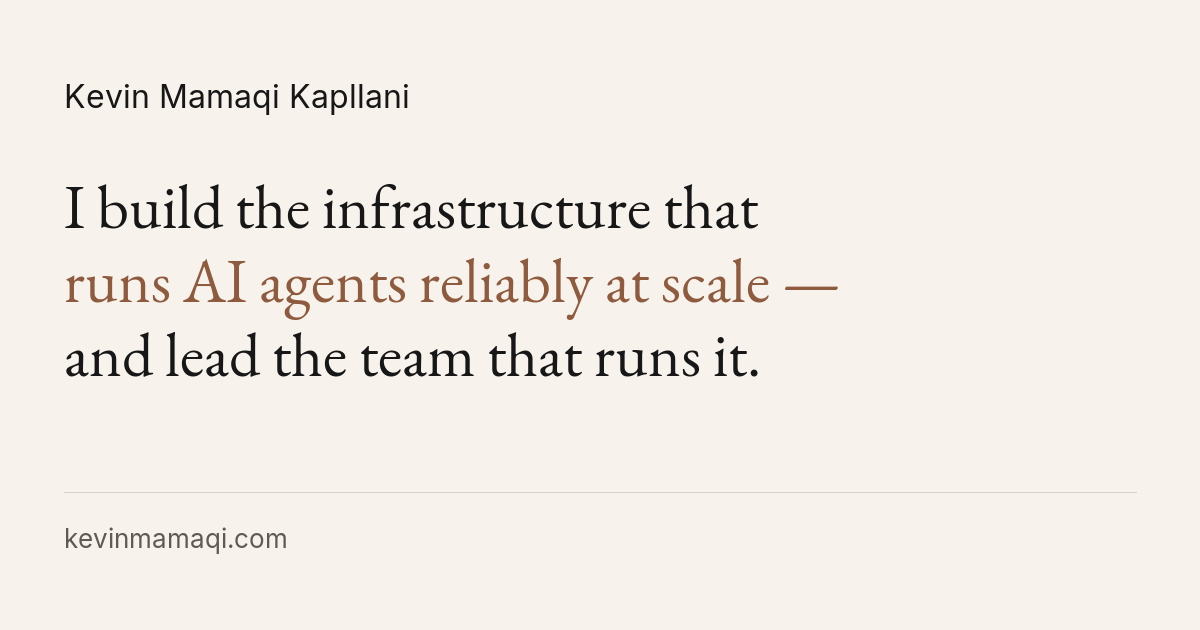
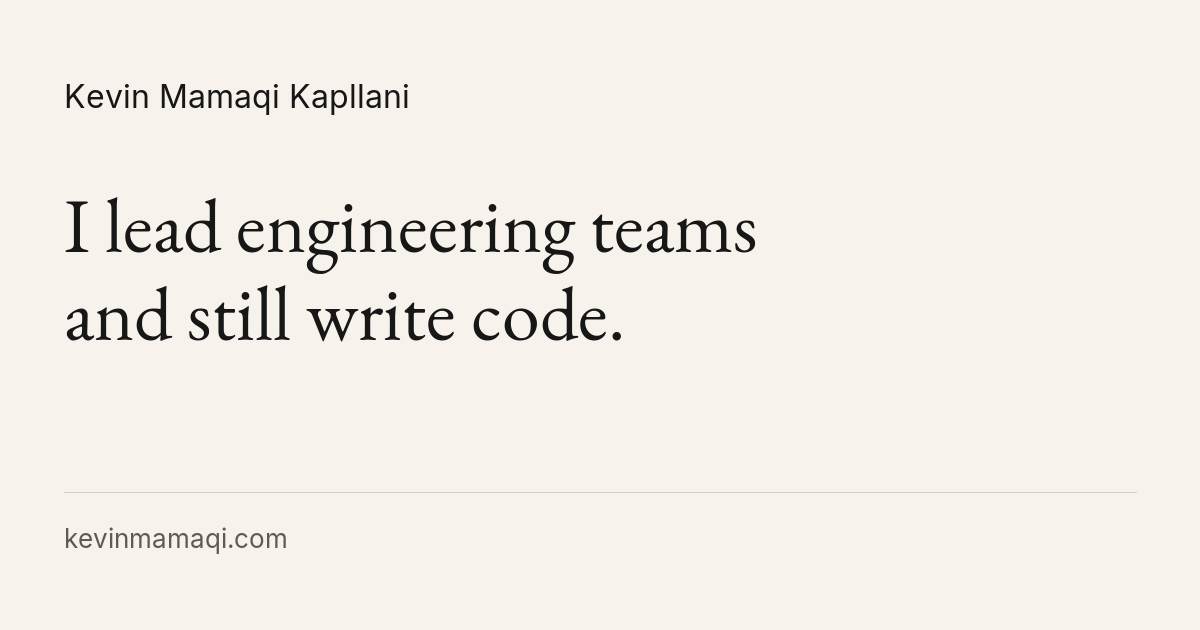
Simplify the hero to plain first-person wording
Replace the infrastructure headline, jargon intro and three CTAs with the
30 October brief's hero: one-line role, two-sentence intro and two CTAs.
Align the page title, meta description, social-card alt text and the
rendered social card with the new headline.

Changed region(s): [[0.0308, 0.3016, 0.7092, 0.6032]]

diff --git a/src/page.tsx b/src/page.tsx
@@ -1,6 +1,6 @@
 import type { JSX } from "react";
 import { ThemeToggle } from "./theme-toggle.tsx";
-import { LINKS, NAV, PROJECTS, RETINAL_PAPER } from "./content/positioning.ts";
+import { HEADLINE, LINKS, NAV, PROJECTS, RETINAL_PAPER } from "./content/positioning.ts";
 import NOTES from "./content/writing.json";
 
 const SKILLS = [
@@ -72,14 +72,13 @@ function Hero() {
     <section id="top" className="hero">
       <img className="hero-photo" src="/notes/ace-technical-interview-mwc-2024/images/kevin-speaking-to-audience.webp" width="1800" height="1200" alt="Kevin Mamaqi speaking at MWC Barcelona 2024" fetchPriority="high" />
       <div className="hero-intro">
-        <p className="eyebrow">Tech Lead &amp; Engineering Manager · Execution infrastructure for AI agents · Barcelona</p>
-        <h1>I build the infrastructure that runs AI agents <em>reliably at scale</em> — and lead the team that runs it.</h1>
+        <p className="eyebrow">Engineering Manager &amp; Tech Lead · Barcelona</p>
+        <h1>{HEADLINE}</h1>
         <div className="hero-motif" aria-hidden="true"><span /><span /><span /></div>
-        <p className="hero-copy">Fifteen years building software, still writing code. At Eachlabs I own the execution engine, dispatch and LLM router behind a platform running 10M+ executions a month across 700+ models, and I lead the engineering team. The problems are the ones every agent platform hits: exactly-once dispatch, multi-provider failure, state at scale, and verifying what ships. Before that: maritime operations software at 90POE, hospital-facing healthcare products before that.</p>
+        <p className="hero-copy">At Eachlabs I run a team of five building the APIs behind 700+ AI models. Before that I led teams in maritime and healthcare software.</p>
         <div className="hero-actions">
-          <a className="text-link" href={LINKS.cv}>View CV <Arrow /></a>
-          <a className="text-link" href="#work">Selected work</a>
-          <a className="text-link" href="#notes">Writing</a>
+          <a className="text-link" href={LINKS.cv}>Read my CV <Arrow /></a>
+          <a className="text-link" href="#contact">Get in touch</a>
         </div>
       </div>
     </section>

diff --git a/src/content/positioning.ts b/src/content/positioning.ts
@@ -1,4 +1,6 @@
-// Public copy supplied in Kevin's 15 October 2026 implementation brief.
+// Hero, work lines, method and contact copy follow Kevin's 30 October 2026
+// simplification brief, which supersedes the 15 October brief: plain first
+// person, no jargon above the fold, at most two public numbers.
 // The earlier Eachlabs dates and contract framing were confirmed in chat.
 // Public scale uses Kevin's approved monthly execution and catalog figures.
 // Keep internal migration and test measurements qualitative.
@@ -18,9 +20,9 @@ export const NAV = [
   { label: "Contact", href: "#contact" },
 ];
 
-export const HEADLINE = "I build the infrastructure that runs AI agents reliably at scale — and lead the team that runs it.";
-export const DESCRIPTION = "Hands-on Tech Lead and Engineering Manager building execution infrastructure for AI agents: dispatch, routing, state and verification. Barcelona, remote-friendly, US-overlap.";
-export const TITLE = "Kevin Mamaqi Kapllani — Tech Lead & Engineering Manager · AI Agent Infrastructure";
+export const HEADLINE = "I lead engineering teams and still write code.";
+export const DESCRIPTION = "I lead engineering teams and still write code. At Eachlabs I run a team of five building the APIs behind 700+ AI models.";
+export const TITLE = "Kevin Mamaqi Kapllani — Engineering Manager & Tech Lead · Barcelona";
 export const REVIEW_NOTES = [
   "paper links for the 2026 research manuscripts",
   "Local copies of the two LinkedIn articles require source Markdown; retain their existing links until supplied.",

diff --git a/src/template.ts b/src/template.ts
@@ -36,7 +36,7 @@ export function html({ title, description, body, css, url = "https://kevinmamaqi
 <meta property="og:image" content="${escape(imageUrl)}" />
 <meta property="og:image:width" content="1200" />
 <meta property="og:image:height" content="630" />
-<meta property="og:image:alt" content="Kevin Mamaqi Kapllani — execution infrastructure for AI agents." />
+<meta property="og:image:alt" content="Kevin Mamaqi Kapllani — Engineering Manager &amp; Tech Lead." />
 <meta property="og:locale" content="en_GB" />
 <meta property="og:site_name" content="Kevin Mamaqi Kapllani" />
 
@@ -44,7 +44,7 @@ export function html({ title, description, body, css, url = "https://kevinmamaqi
 <meta name="twitter:title" content="${escape(title)}" />
 <meta name="twitter:description" content="${escape(description)}" />
 <meta name="twitter:image" content="${escape(imageUrl)}" />
-<meta name="twitter:image:alt" content="Kevin Mamaqi Kapllani — execution infrastructure for AI agents." />
+<meta name="twitter:image:alt" content="Kevin Mamaqi Kapllani — Engineering Manager &amp; Tech Lead." />
 ${reviewComments}
 
 <link rel="preconnect" href="https://fonts.googleapis.com" />

diff --git a/src/styles.css b/src/styles.css
@@ -54,11 +54,6 @@ ul, ol {
   text-wrap: balance;
 }
 
-.hero h1 em {
-  font-style: italic;
-  color: var(--warm);
-}
-
 .hero-motif,
 .section-motif {
   display: flex;

diff --git a/scripts/render-social-card.py b/scripts/render-social-card.py
@@ -12,9 +12,8 @@ args = parser.parse_args()
 root = Path(__file__).resolve().parents[1]
 css = (root / "public/styles/base.css").read_text()
 colors = {key: re.search(r"--" + key + r":\s*([^;]+);", css).group(1).strip()
-          for key in ("paper", "ink", "warm", "line", "muted")}
-lines = ["I build the infrastructure that", "runs AI agents reliably at scale —",
-         "and lead the team that runs it."]
+          for key in ("paper", "ink", "line", "muted")}
+lines = ["I lead engineering teams", "and still write code."]
 headline = json.loads(re.search(r'HEADLINE = ("[^"]+")',
                                (root / "src/content/positioning.ts").read_text()).group(1))
 assert " ".join(lines) == headline, "Update the social card line breaks for the new headline."
@@ -23,9 +22,8 @@ subprocess.run([
     "magick", "-size", "1200x630", "xc:" + colors["paper"],
     "-fill", colors["ink"], "-font", str(sans), "-pointsize", "32",
     "-annotate", "+64+108", "Kevin Mamaqi Kapllani",
-    "-font", str(serif), "-pointsize", "62", "-annotate", "+64+228", lines[0],
-    "-fill", colors["warm"], "-annotate", "+64+302", lines[1],
-    "-fill", colors["ink"], "-annotate", "+64+376", lines[2],
+    "-font", str(serif), "-pointsize", "76", "-annotate", "+64+252", lines[0],
+    "-annotate", "+64+340", lines[1],
     "-stroke", colors["line"], "-strokewidth", "1", "-draw", "line 64,492 1136,492",
     "-stroke", "none", "-fill", colors["muted"], "-font", str(sans), "-pointsize", "26",
     "-annotate", "+64+548", "kevinmamaqi.com", str(root / "public/social-card.png"),
